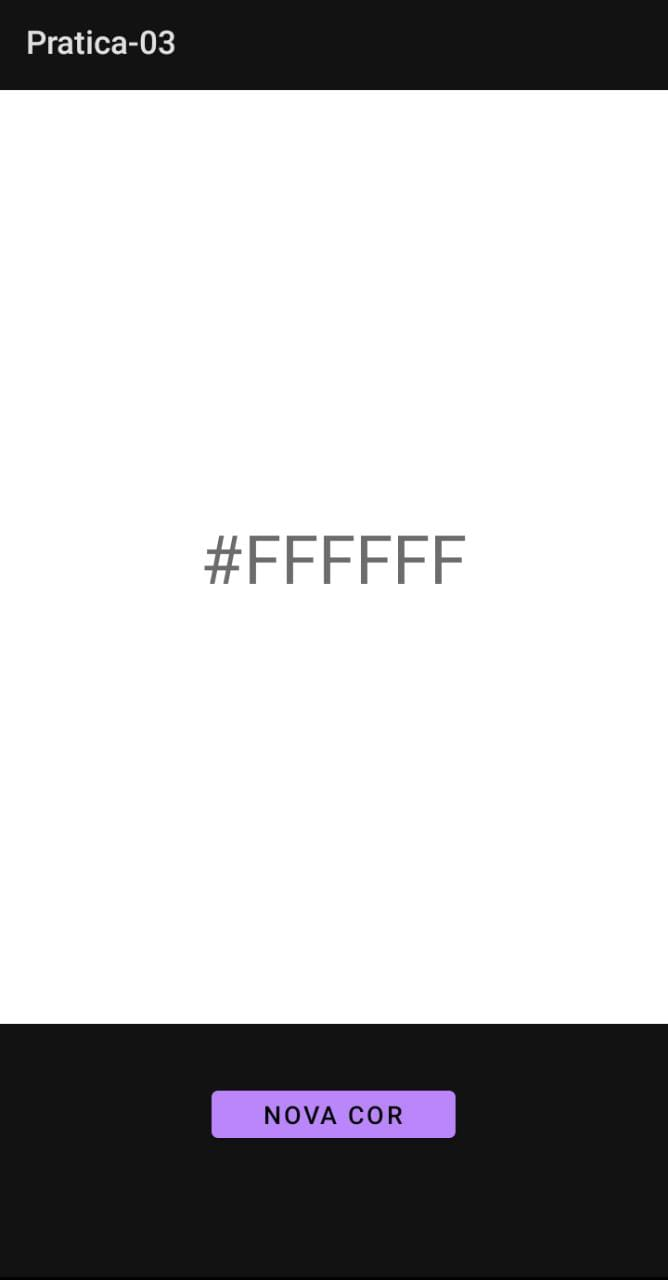
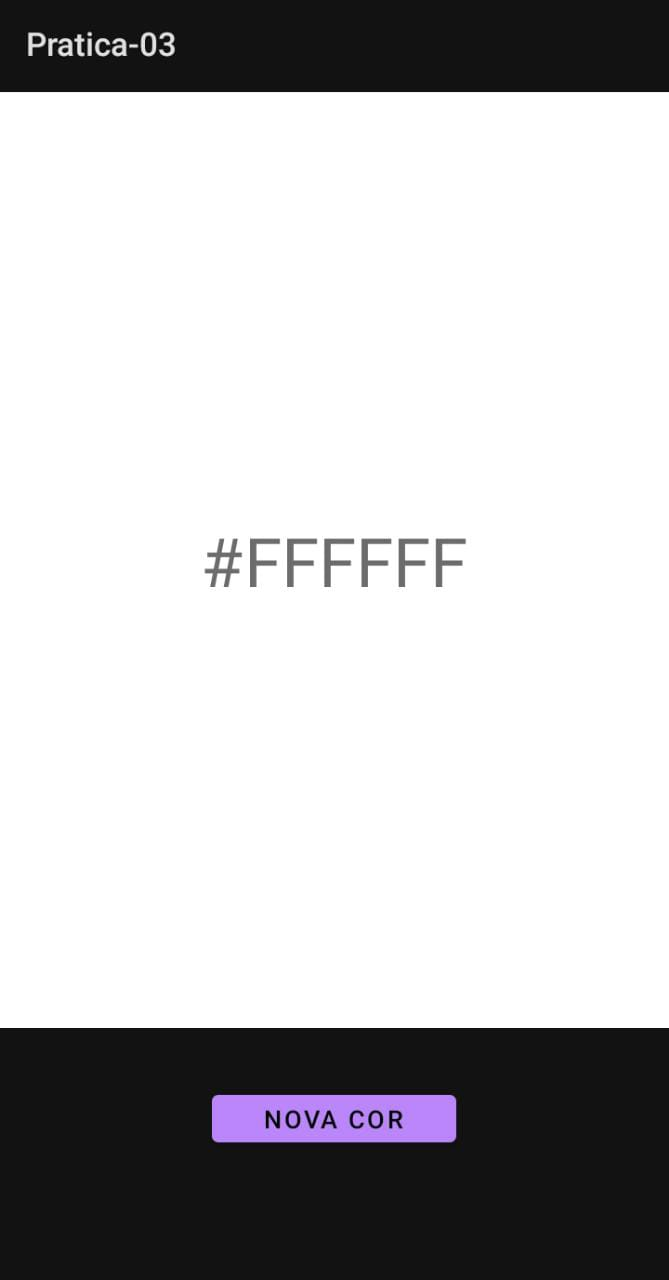
adicionado textos sobre valor de seekbar

diff --git a/Atividade - 3/Pratica03/app/src/main/java/com/example/pratica_03/tela02.kt b/Atividade - 3/Pratica03/app/src/main/java/com/example/pratica_03/tela02.kt
@@ -22,7 +22,6 @@ class tela02 : AppCompatActivity() {
     private lateinit var bntsalvar: Button
     private lateinit var bntcancelar: Button
 
-
     override fun onCreate(savedInstanceState: Bundle?) {
         super.onCreate(savedInstanceState)
         setContentView(R.layout.activity_tela02)
@@ -77,6 +76,9 @@ class tela02 : AppCompatActivity() {
         private lateinit var seekBar2: SeekBar
         private lateinit var seekBar3: SeekBar
         private  lateinit var corgerada: TextView
+        private lateinit var textViewRed: TextView
+        private lateinit var textViewGreen: TextView
+        private lateinit var textViewBlue: TextView
 
         override fun onProgressChanged(seekBar: SeekBar?, progress: Int, fromUser: Boolean) { // toda vez que alterar faz
             this.tela = findViewById(R.id.tvColor)
@@ -88,6 +90,14 @@ class tela02 : AppCompatActivity() {
             this.tela.setBackgroundColor(Color.rgb(this.seekBar1.progress, seekBar2.progress, seekBar3.progress))
 
             this.corgerada.setText("#" + java.lang.Integer.toHexString(Color.rgb(this.seekBar1.progress, seekBar2.progress, seekBar3.progress)).substring(2,8).toUpperCase())
+
+            this.textViewRed = findViewById(R.id.textViewRed)
+            this.textViewGreen = findViewById(R.id.textViewGreen)
+            this.textViewBlue = findViewById(R.id.textViewBlue)
+
+            this.textViewRed.text = this.seekBar1.progress.toString()
+            this.textViewGreen.text = this.seekBar2.progress.toString()
+            this.textViewBlue.text = this.seekBar3.progress.toString()
 
         }
 
